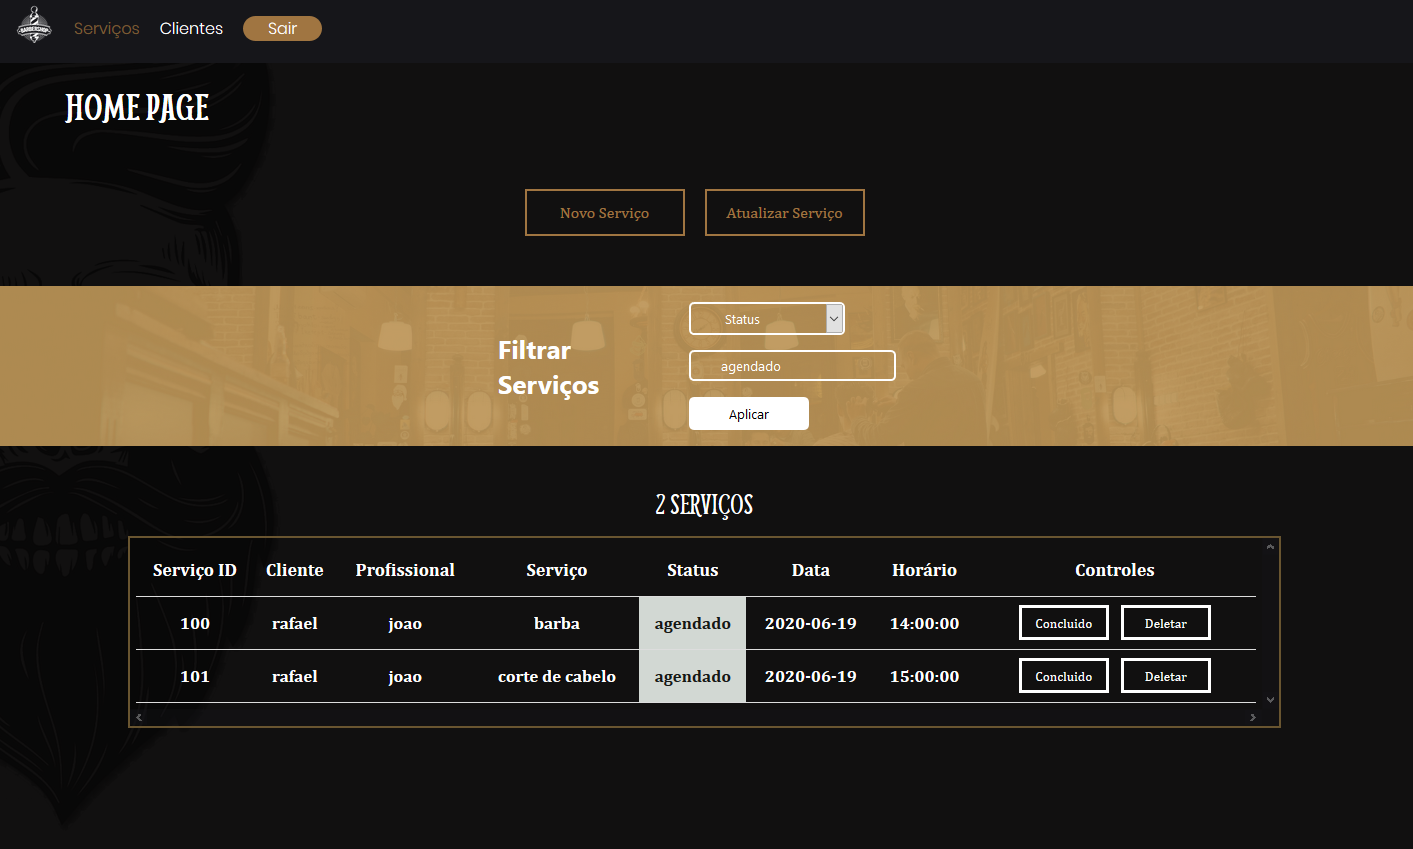
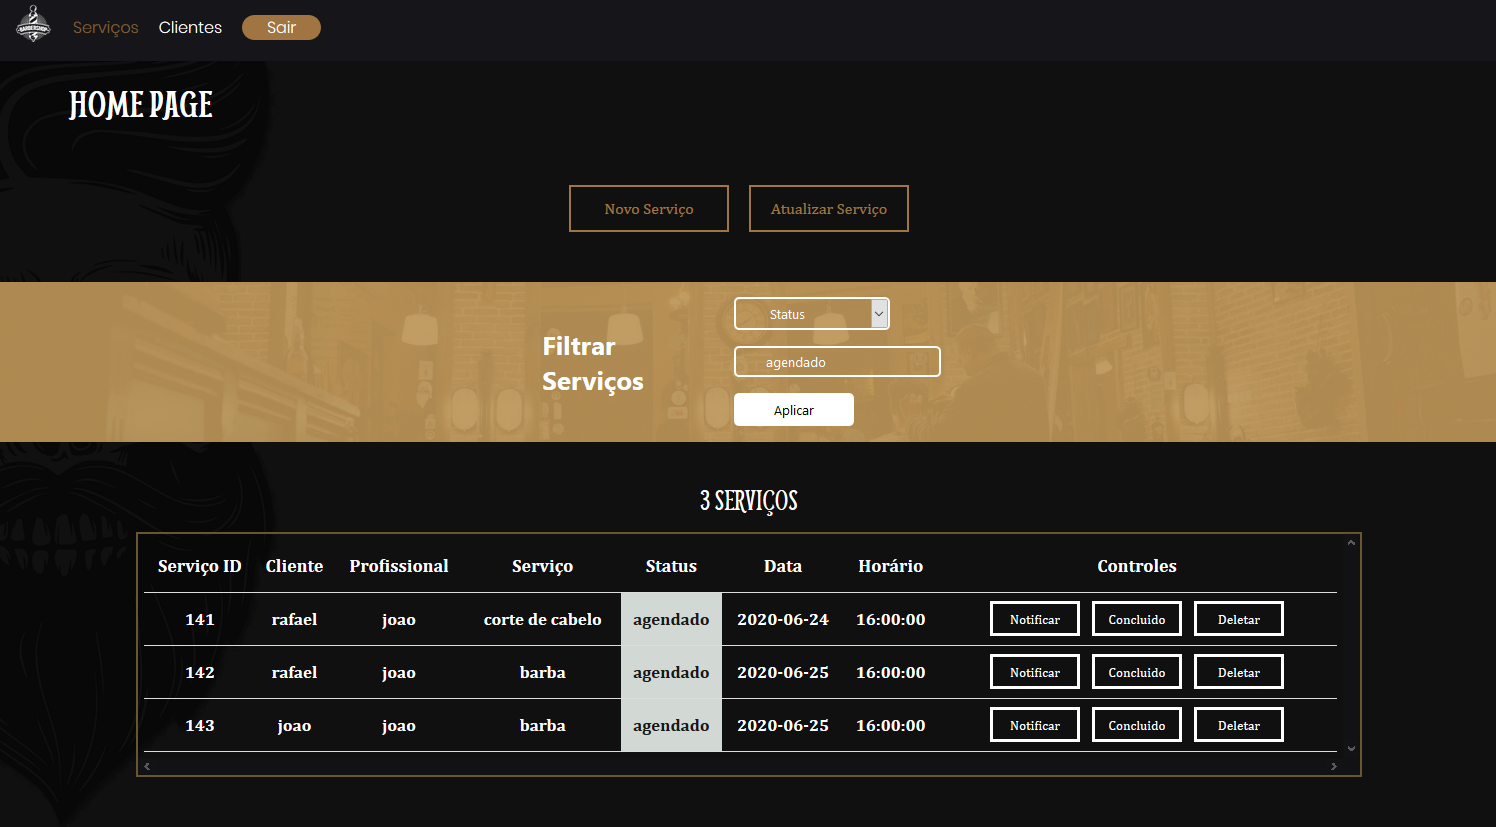
new update readme

diff --git a/README.md b/README.md
@@ -28,7 +28,7 @@ Na tela de login, as credenciais do usuário são enviadas para a API, se coinci
 <img src='./src/img/login.PNG' width="400"></a>
 
 * ### Home - Serviços
-Nesta tela, já são listados diretamente todos os serviços registrados no banco em uma tabela, podendo ser filtrado por qualquer um dos filtros indicados, contendo 2 controles, o primeiro "Concluido", altera o status do serviço para 'realizado', já o segundo, como o nome sugere, deleta o resgistro daquele serviço.
+Nesta tela, já são listados diretamente todos os serviços registrados no banco em uma tabela, podendo ser filtrado por qualquer um dos filtros indicados, contendo 3 controles, o primeiro, "Notificar" envia um e-mail de confirmação do agendamento para o cliente, o segundo "Concluido", altera o status do serviço para 'realizado', já o terceiro, como o nome sugere, deleta o resgistro daquele serviço.
 
 <img src='./src/img/home.PNG' width="400"></a>
 
@@ -59,5 +59,5 @@ já o botão "Atualizar Cliente" redireciona o usuário para um formulário para
 * #### Agendamento pelo cliente
 Essa sugestão consiste em implementar um sistema no qual o próprio cliente possa acessar um formulário, preencher seus dados e agendar o serviço desejado, e o serviço automaticamente checaria a disponibilidade, e incluiria o serviço na agenda da barbearia
 
-* #### E-mail de confirmação 
+* #### E-mail de confirmação (Já implementada)
 Essa sugestão consiste em implementar o envio de um e-mail de confirmação para o cliente, confirmando o agendamento do serviço e relembrando o mesmo a comparecer na barbearia para realizar o serviço
